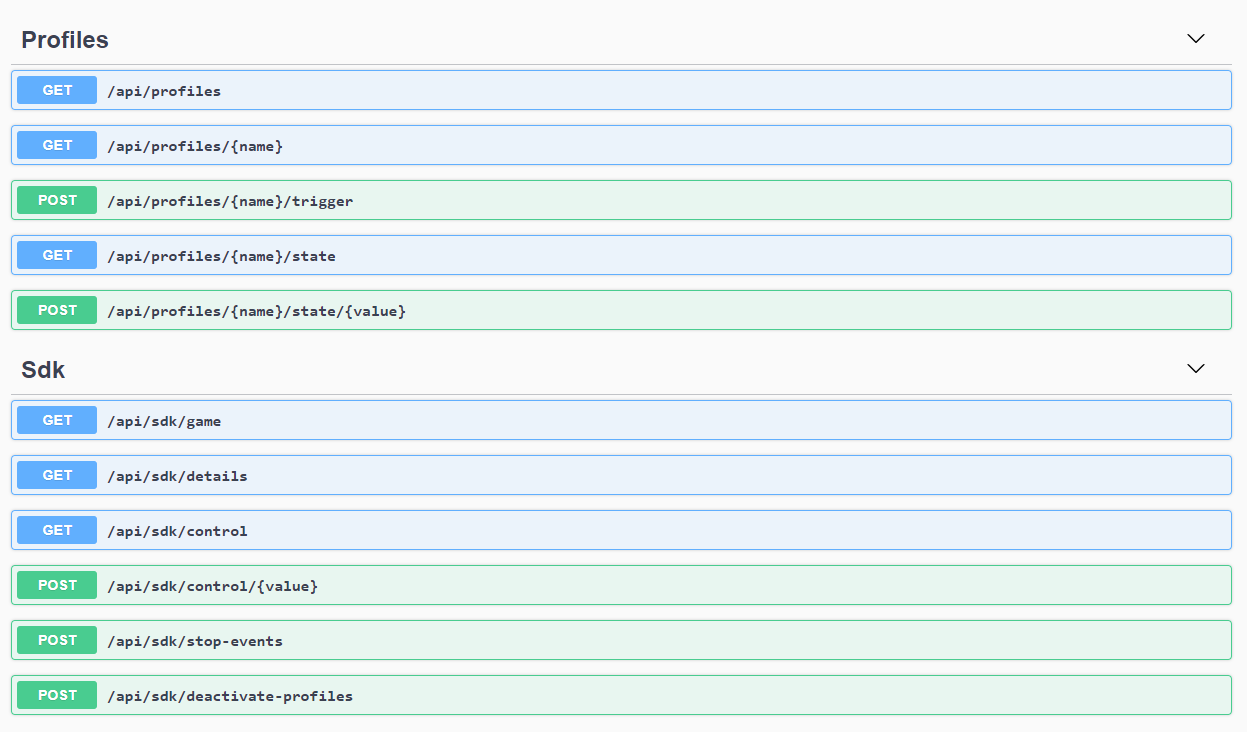
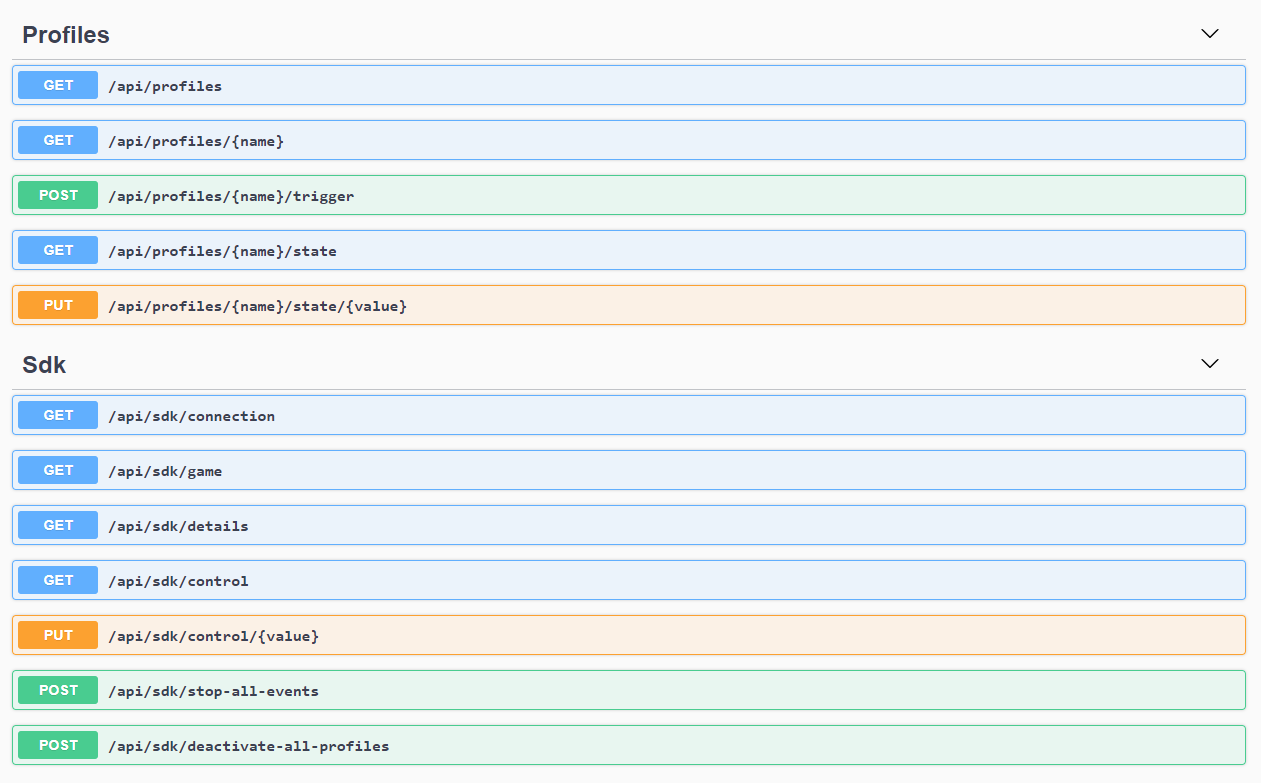
updated API close #2

Changed region(s): [[0.0, 0.0301, 1.0, 0.9918]]

diff --git a/src/Controllers/SdkController.cs b/src/Controllers/SdkController.cs
@@ -44,7 +44,7 @@ namespace OpenCueService.Controllers
             return Sdk.HasControl();
         }
 
-        [HttpPost]
+        [HttpPut]
         [Route("control/{value:bool}")]
         public bool Control(bool value)
         {
@@ -52,13 +52,13 @@ namespace OpenCueService.Controllers
         }
 
         [HttpPost]
-        [Route("stop-events")]
+        [Route("stop-all-events")]
         public void StopAllEvents()
         {
             ProfileManager.StopAllEvents();
         }
         [HttpPost]
-        [Route("deactivate-profiles")]
+        [Route("deactivate-all-profiles")]
         public void DeactivateAllProfiles()
         {
             ProfileManager.DeactivateAllProfiles();

diff --git a/src/Controllers/ProfilesController.cs b/src/Controllers/ProfilesController.cs
@@ -50,7 +50,7 @@ namespace OpenCueService.Controllers
             return GetProfile(name).State;
         }
         //Set the state of a profile
-        [HttpPost]
+        [HttpPut]
         [Route("{name}/state/{value:bool}")]
         public Profile SetState(string name, bool value)
         {
